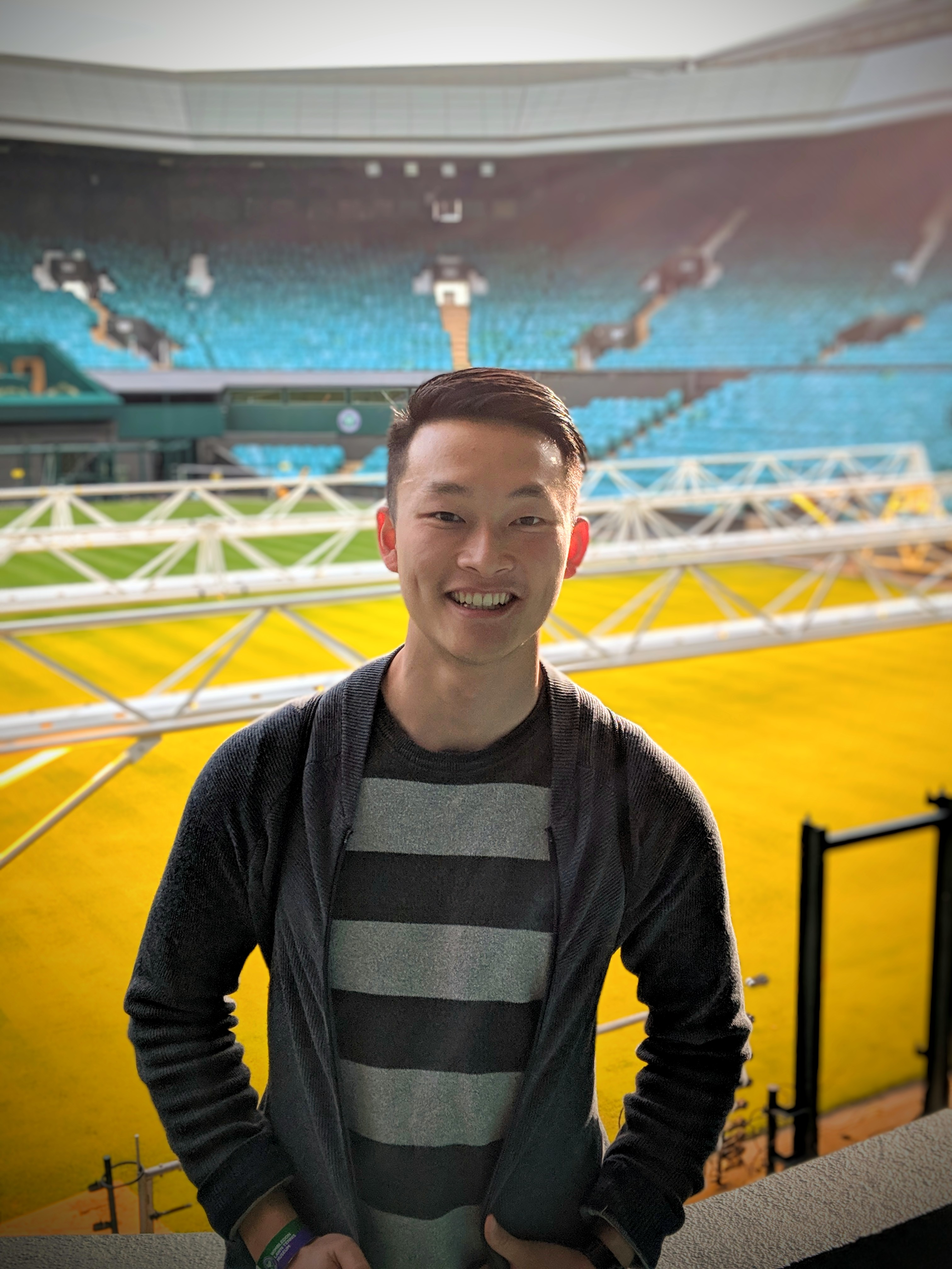
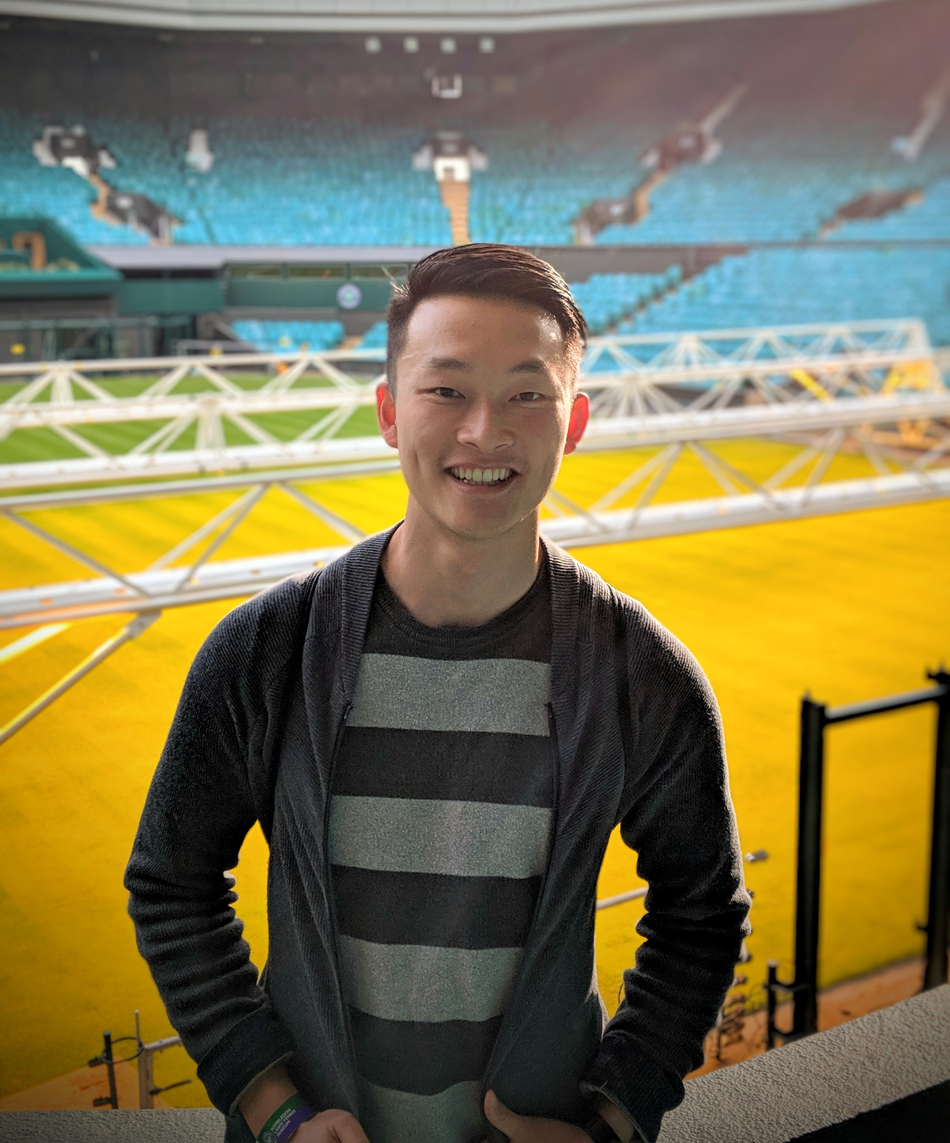
add background photos

diff --git a/pages/about.html b/pages/about.html
@@ -1,15 +1,18 @@
 ---
 layout: page
 header: no
-image:
-    title: about_photo.jpg
-    caption_url: https://unsplash.com/
 permalink: "/about/"
 ---
 <head>
   <meta charset="UTF-8">
 </head>
 
+<img src="/images/about_photo.jpg" style="
+    margin: 0 auto;
+    display: block;
+    width: 65%;
+">
+<br><br>
 <p style="font-size: 1.1rem;"> I'm an undergraduate student student studying Computer Science at
   the University of Waterloo and Business Administration at Wilfrid Laurier University in Canada.</p>
 

diff --git a/pages/pages-root-folder/index.md b/pages/pages-root-folder/index.md
@@ -7,7 +7,7 @@
 layout: frontpage
 header:
   title: ""
-  image_fullwidth: swiss_bridge.jpeg
+  image_fullwidth: swiss_bridge.jpg
 
 widget1:
   title: "Tennis"
